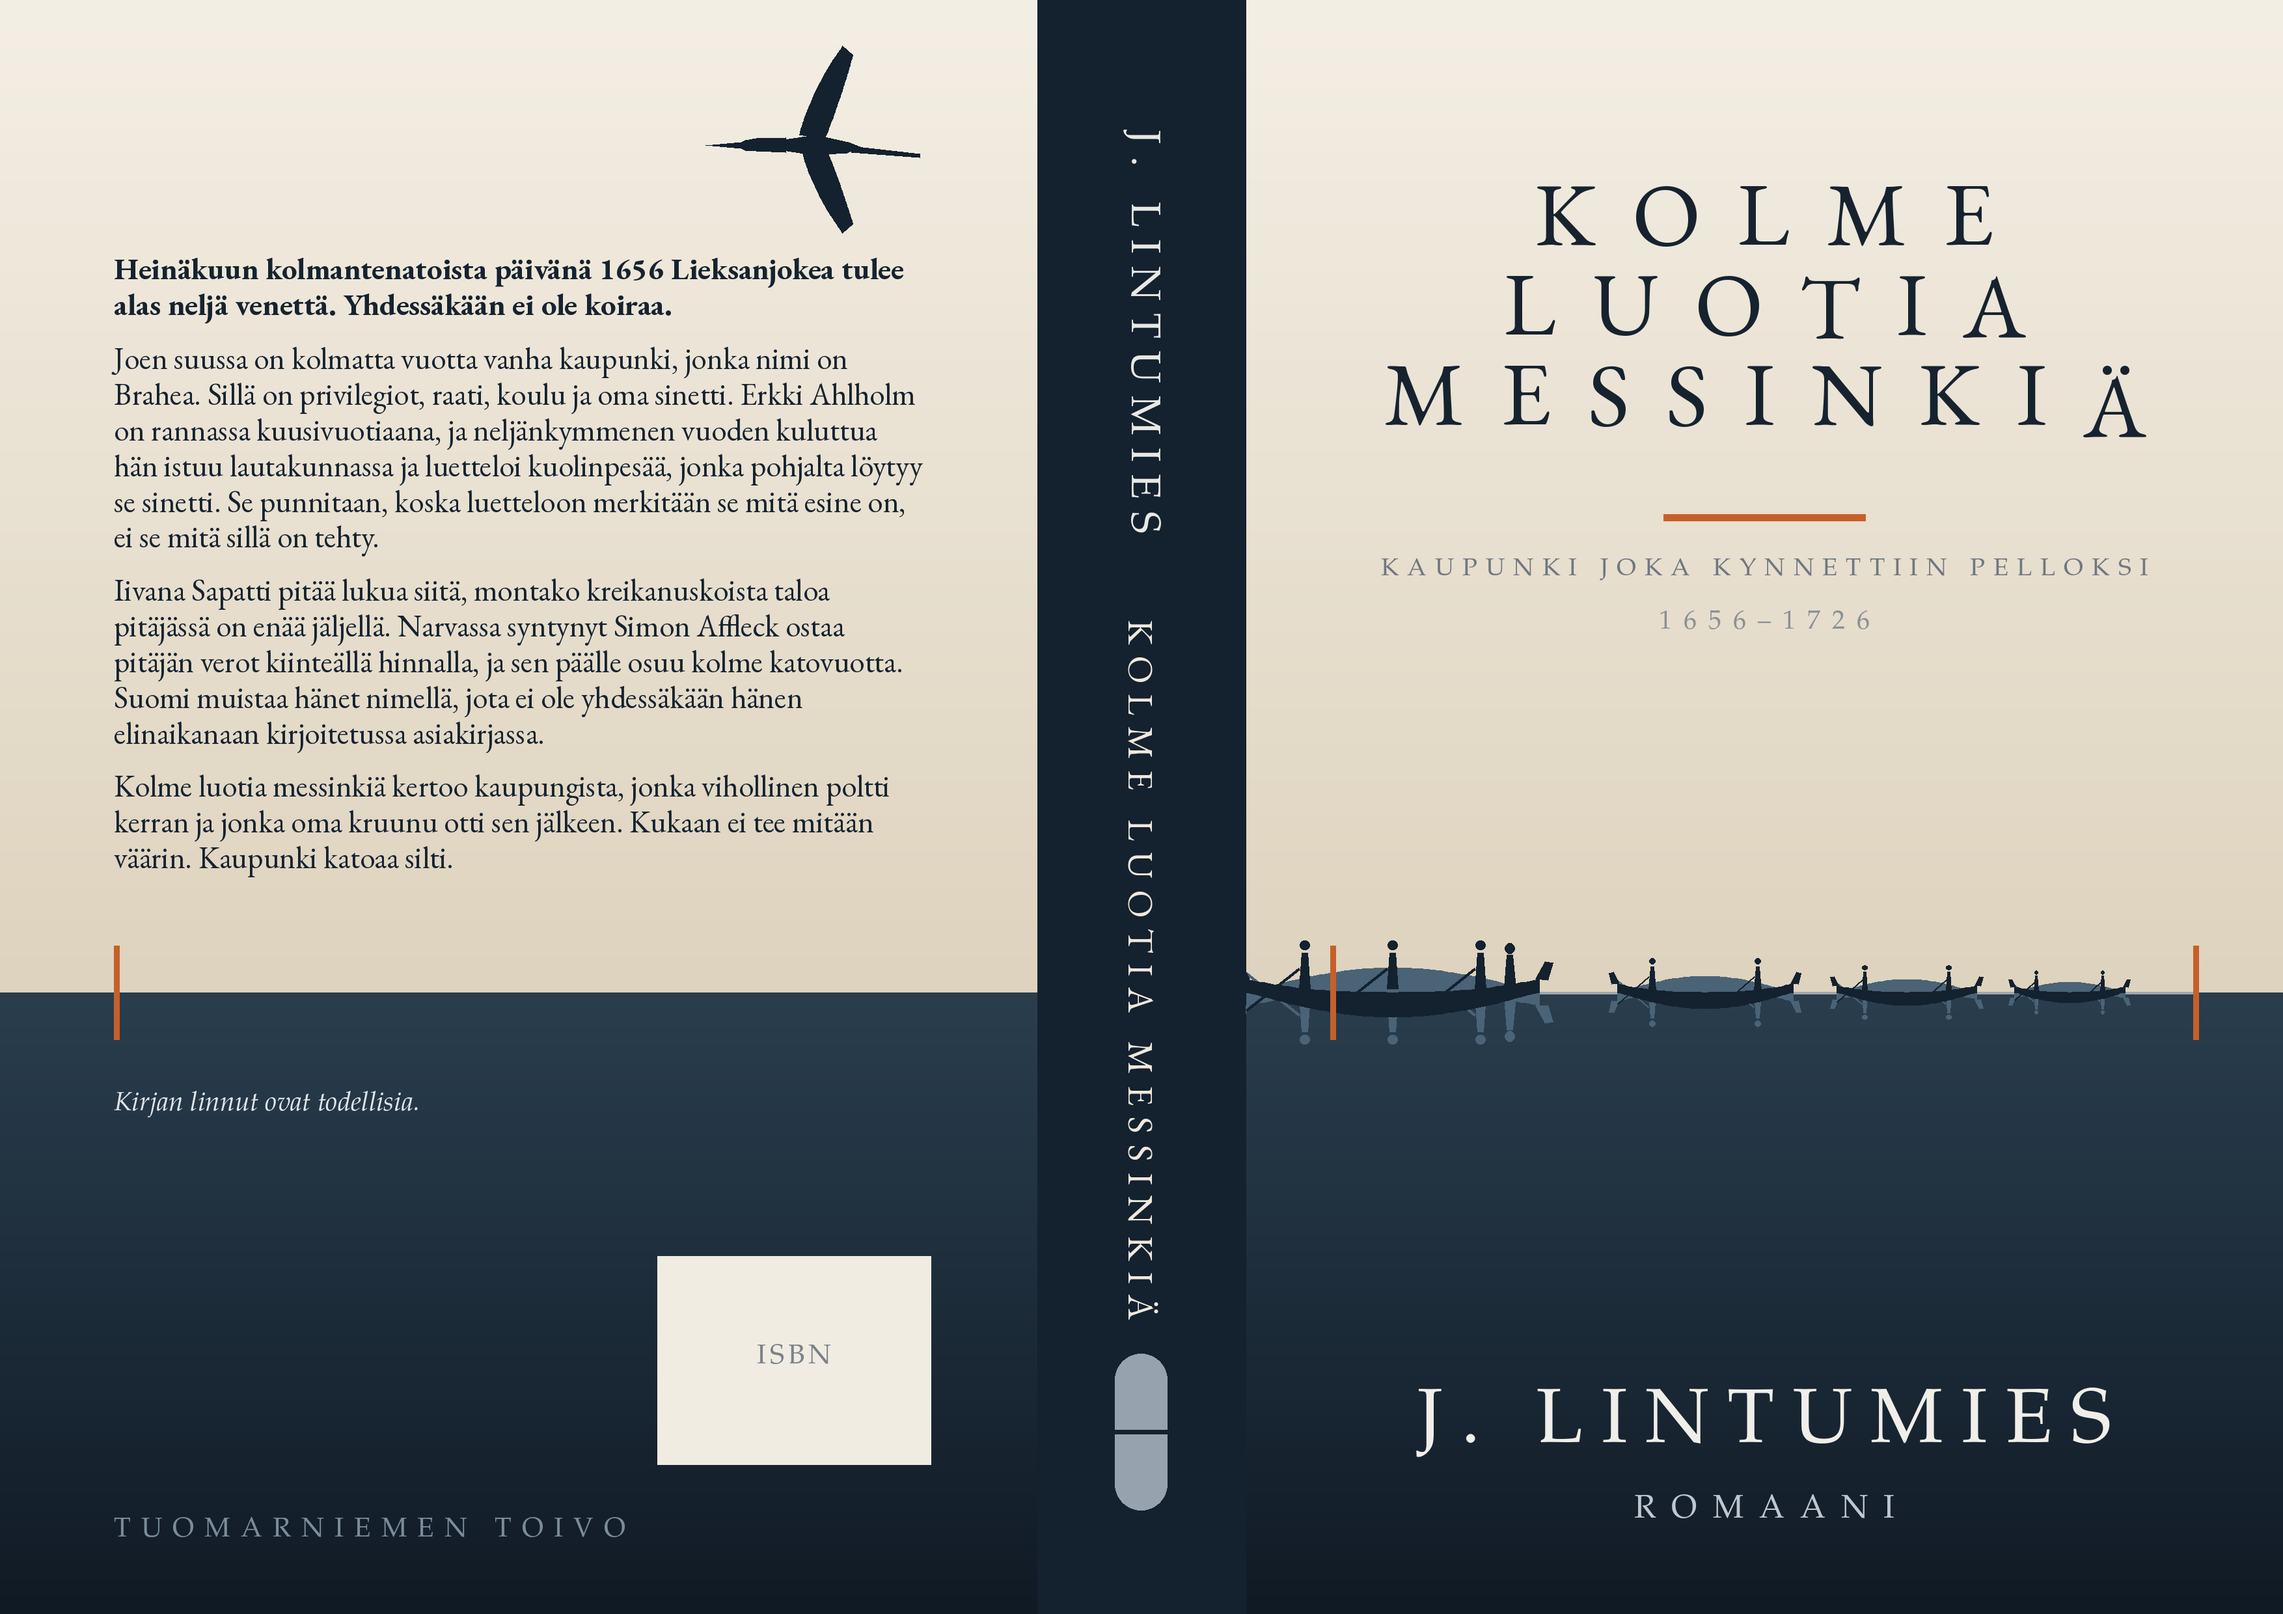
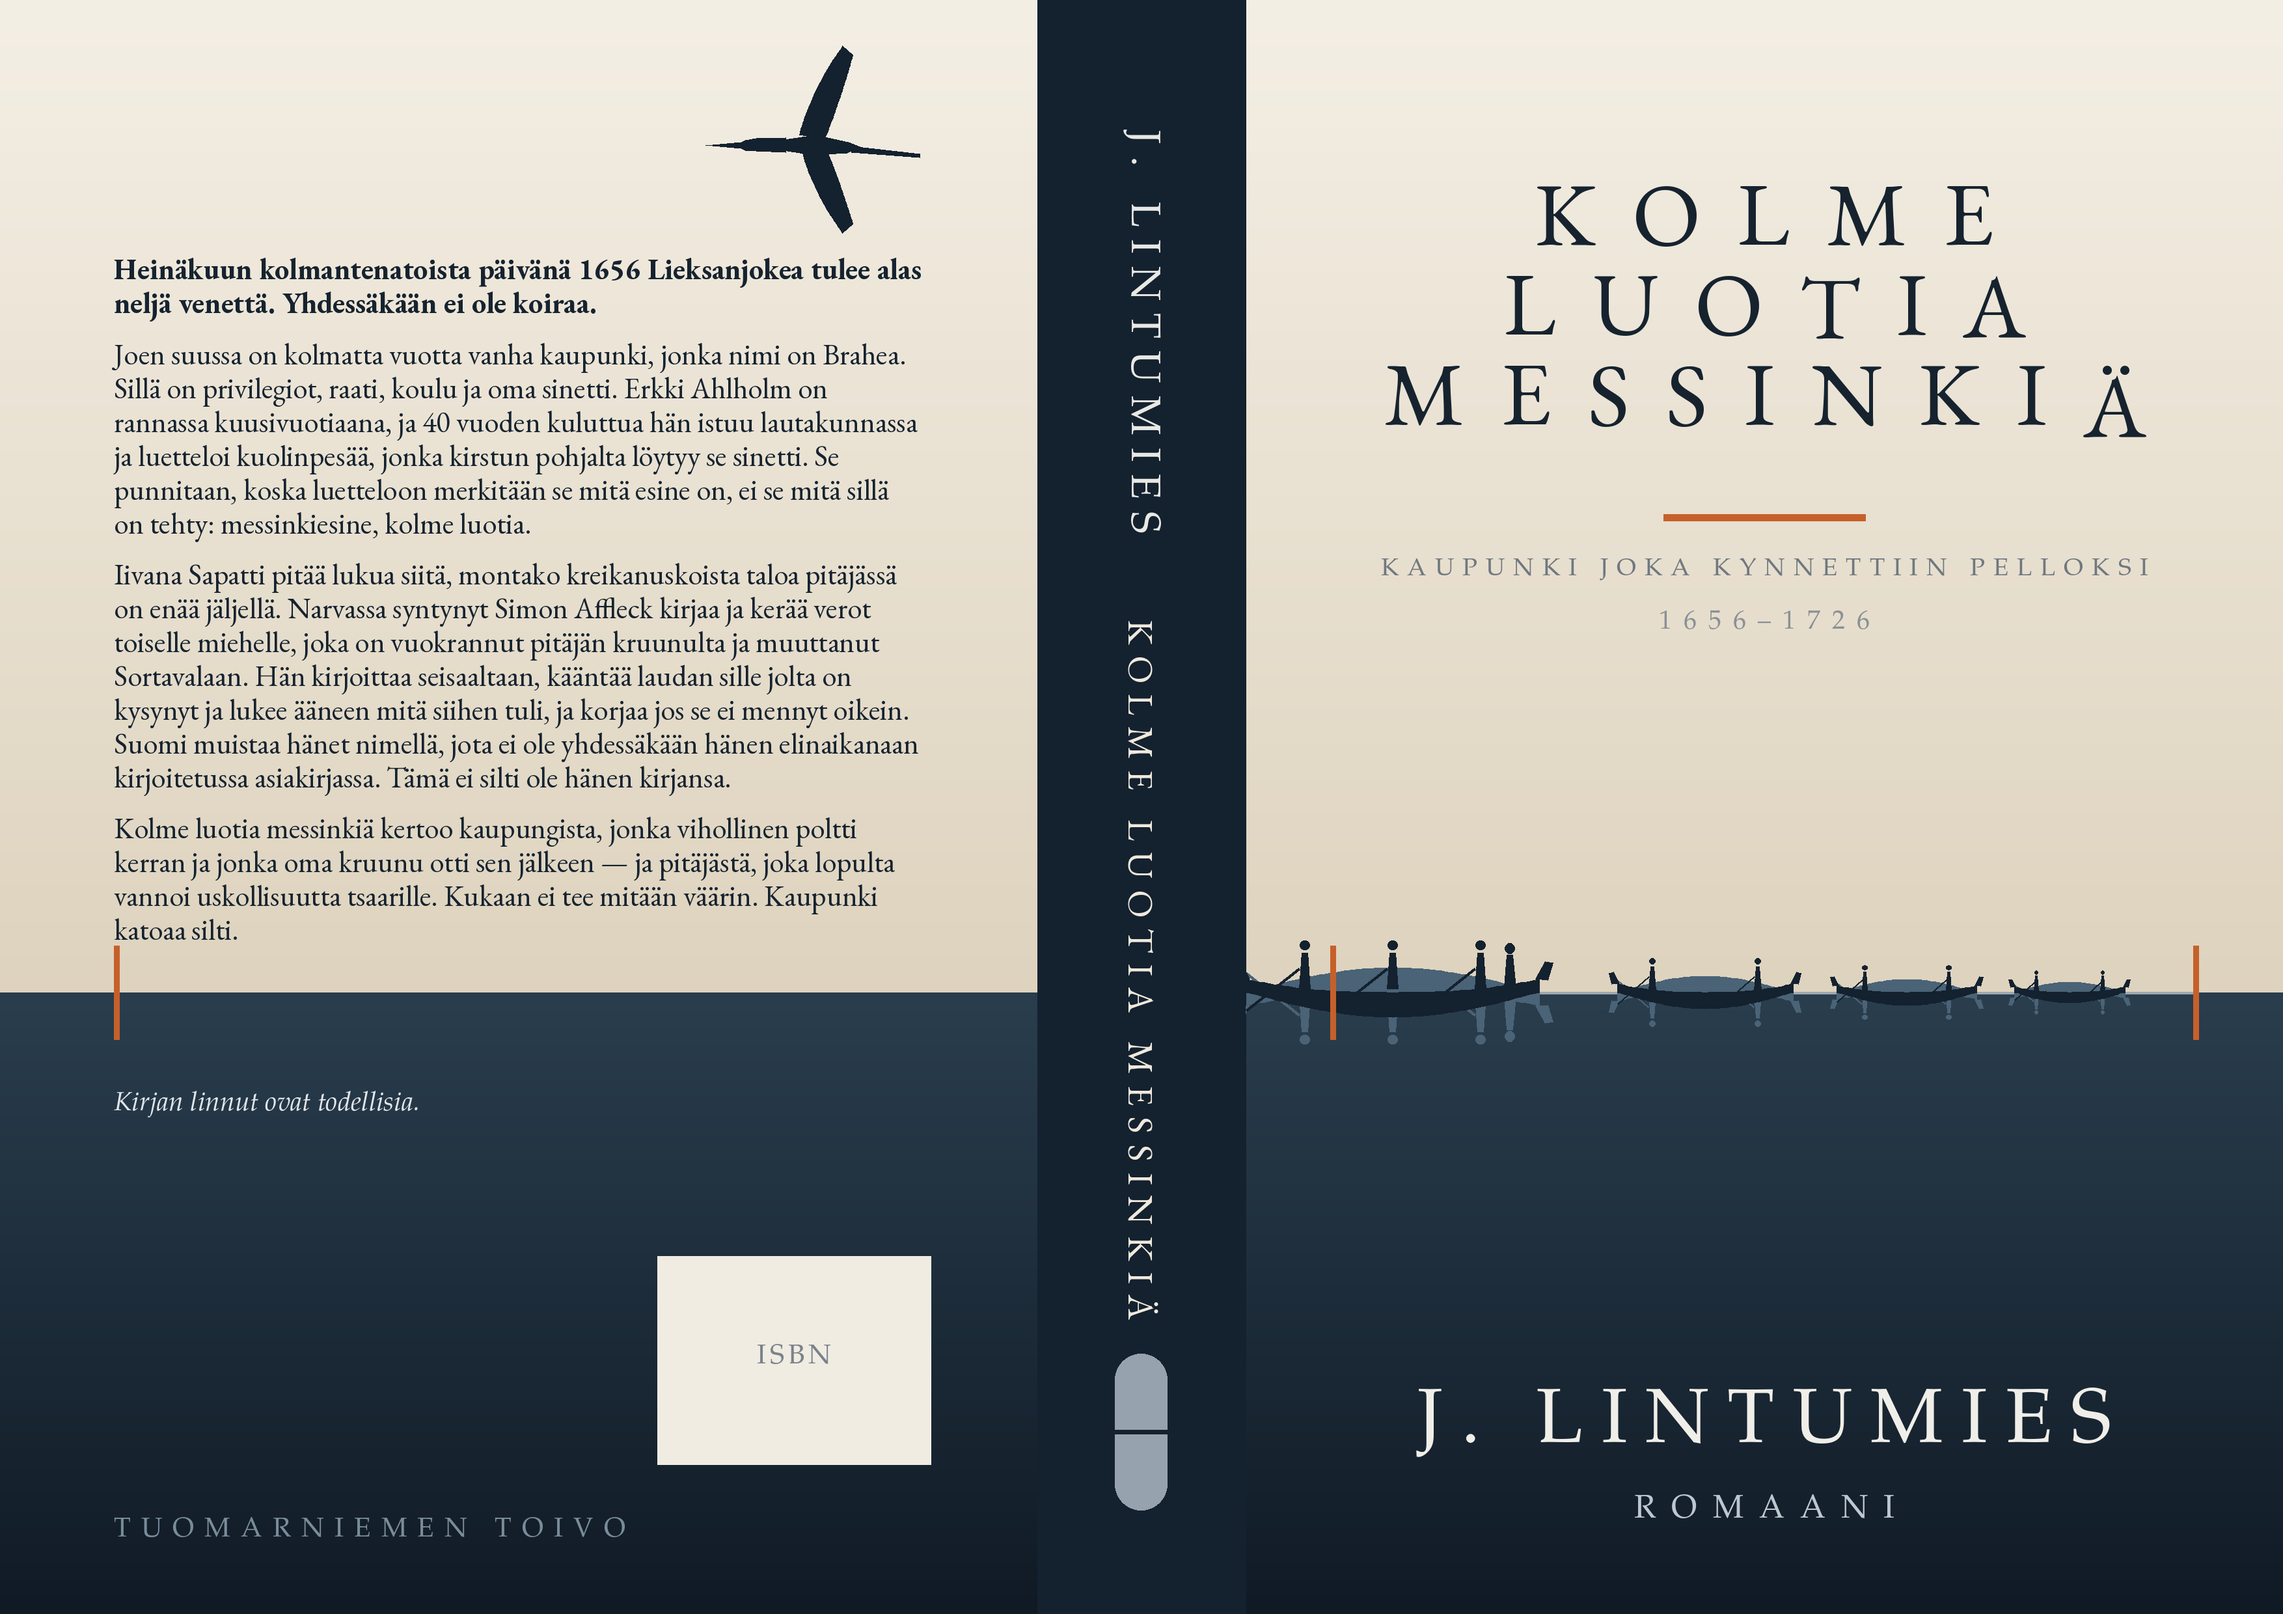
Add files via upload

Changed region(s): [[0.0311, 0.1552, 0.4039, 0.5899]]

diff --git a/index.html b/index.html
@@ -182,8 +182,8 @@
         <div class="alle"></div>
         <p><strong>Heinäkuun kolmantenatoista päivänä 1656 Lieksanjokea tulee alas neljä venettä. Yhdessäkään ei ole koiraa.</strong></p>
         <p>Joen suussa on kolmatta vuotta vanha kaupunki, jonka nimi on Brahea. Sillä on privilegiot, raati, koulu ja oma sinetti. Erkki Ahlholm on rannassa kuusivuotiaana, ja 40 vuoden kuluttua hän istuu lautakunnassa ja luetteloi kuolinpesää, jonka kirstun pohjalta löytyy se sinetti. Se punnitaan, koska luetteloon merkitään se mitä esine on, ei se mitä sillä on tehty: <em>messinkiesine, kolme luotia</em>.</p>
-        <p>Narvassa syntynyt Simon Affleck ostaa pitäjän verot kiinteällä hinnalla, ja sen päälle osuu kolme katovuotta. Lokakuussa 1689 hän ampuu takaa-ajossa talonpoikaa hauleilla kumpaankin jalkaan, ja yhdeksän vuotta myöhemmin talonpojan poika ampuu häntä päähän. Suomi muistaa hänet nimellä Simo Hurtta — nimellä, jota ei ole yhdessäkään hänen elinaikanaan kirjoitetussa asiakirjassa.</p>
-        <p>Kolme luotia messinkiä kertoo kaupungista, jonka vihollinen poltti kerran ja jonka oma kruunu otti sen jälkeen. Kukaan ei tee mitään väärin. Kaupunki katoaa silti.</p>
+        <p>Iivana Sapatti pitää lukua siitä, montako kreikanuskoista taloa pitäjässä on enää jäljellä. Narvassa syntynyt Simon Affleck kirjaa ja kerää verot toiselle miehelle, joka on vuokrannut pitäjän kruunulta ja muuttanut Sortavalaan. Hän kirjoittaa seisaaltaan, kääntää laudan sille jolta on kysynyt ja lukee ääneen mitä siihen tuli, ja korjaa jos se ei mennyt oikein. Suomi muistaa hänet nimellä Simo Hurtta — nimellä, jota ei ole yhdessäkään hänen elinaikanaan kirjoitetussa asiakirjassa. Tämä ei silti ole hänen kirjansa: hän tulee mukaan puolivälin jälkeen ja on yksi niistä jotka olivat siellä.</p>
+        <p>Kolme luotia messinkiä kertoo kaupungista, jonka vihollinen poltti kerran ja jonka oma kruunu otti sen jälkeen — ja pitäjästä, joka lopulta vannoi uskollisuutta tsaarille. Kukaan ei tee mitään väärin. Kaupunki katoaa silti.</p>
         <p class="karsi">Kirjan linnut ovat todellisia.</p>
         <p style="margin-top:18px"><a class="nappi" href="nayte-kolme-luotia-messinkia.html">Lue näyte</a> <a class="nappi" style="background:transparent;color:var(--meri);box-shadow:inset 0 0 0 2px var(--meri)" href="kaupunki-joka-kynnettiin-pelloksi.pdf" target="_blank" rel="noopener">Taustatyö: kaupunki joka kynnettiin pelloksi</a> <a class="nappi" style="background:transparent;color:var(--meri);box-shadow:inset 0 0 0 2px var(--meri)" href="kaksi-laukausta.pdf" target="_blank" rel="noopener">Taustatyö: kaksi laukausta</a></p>
       </div>
